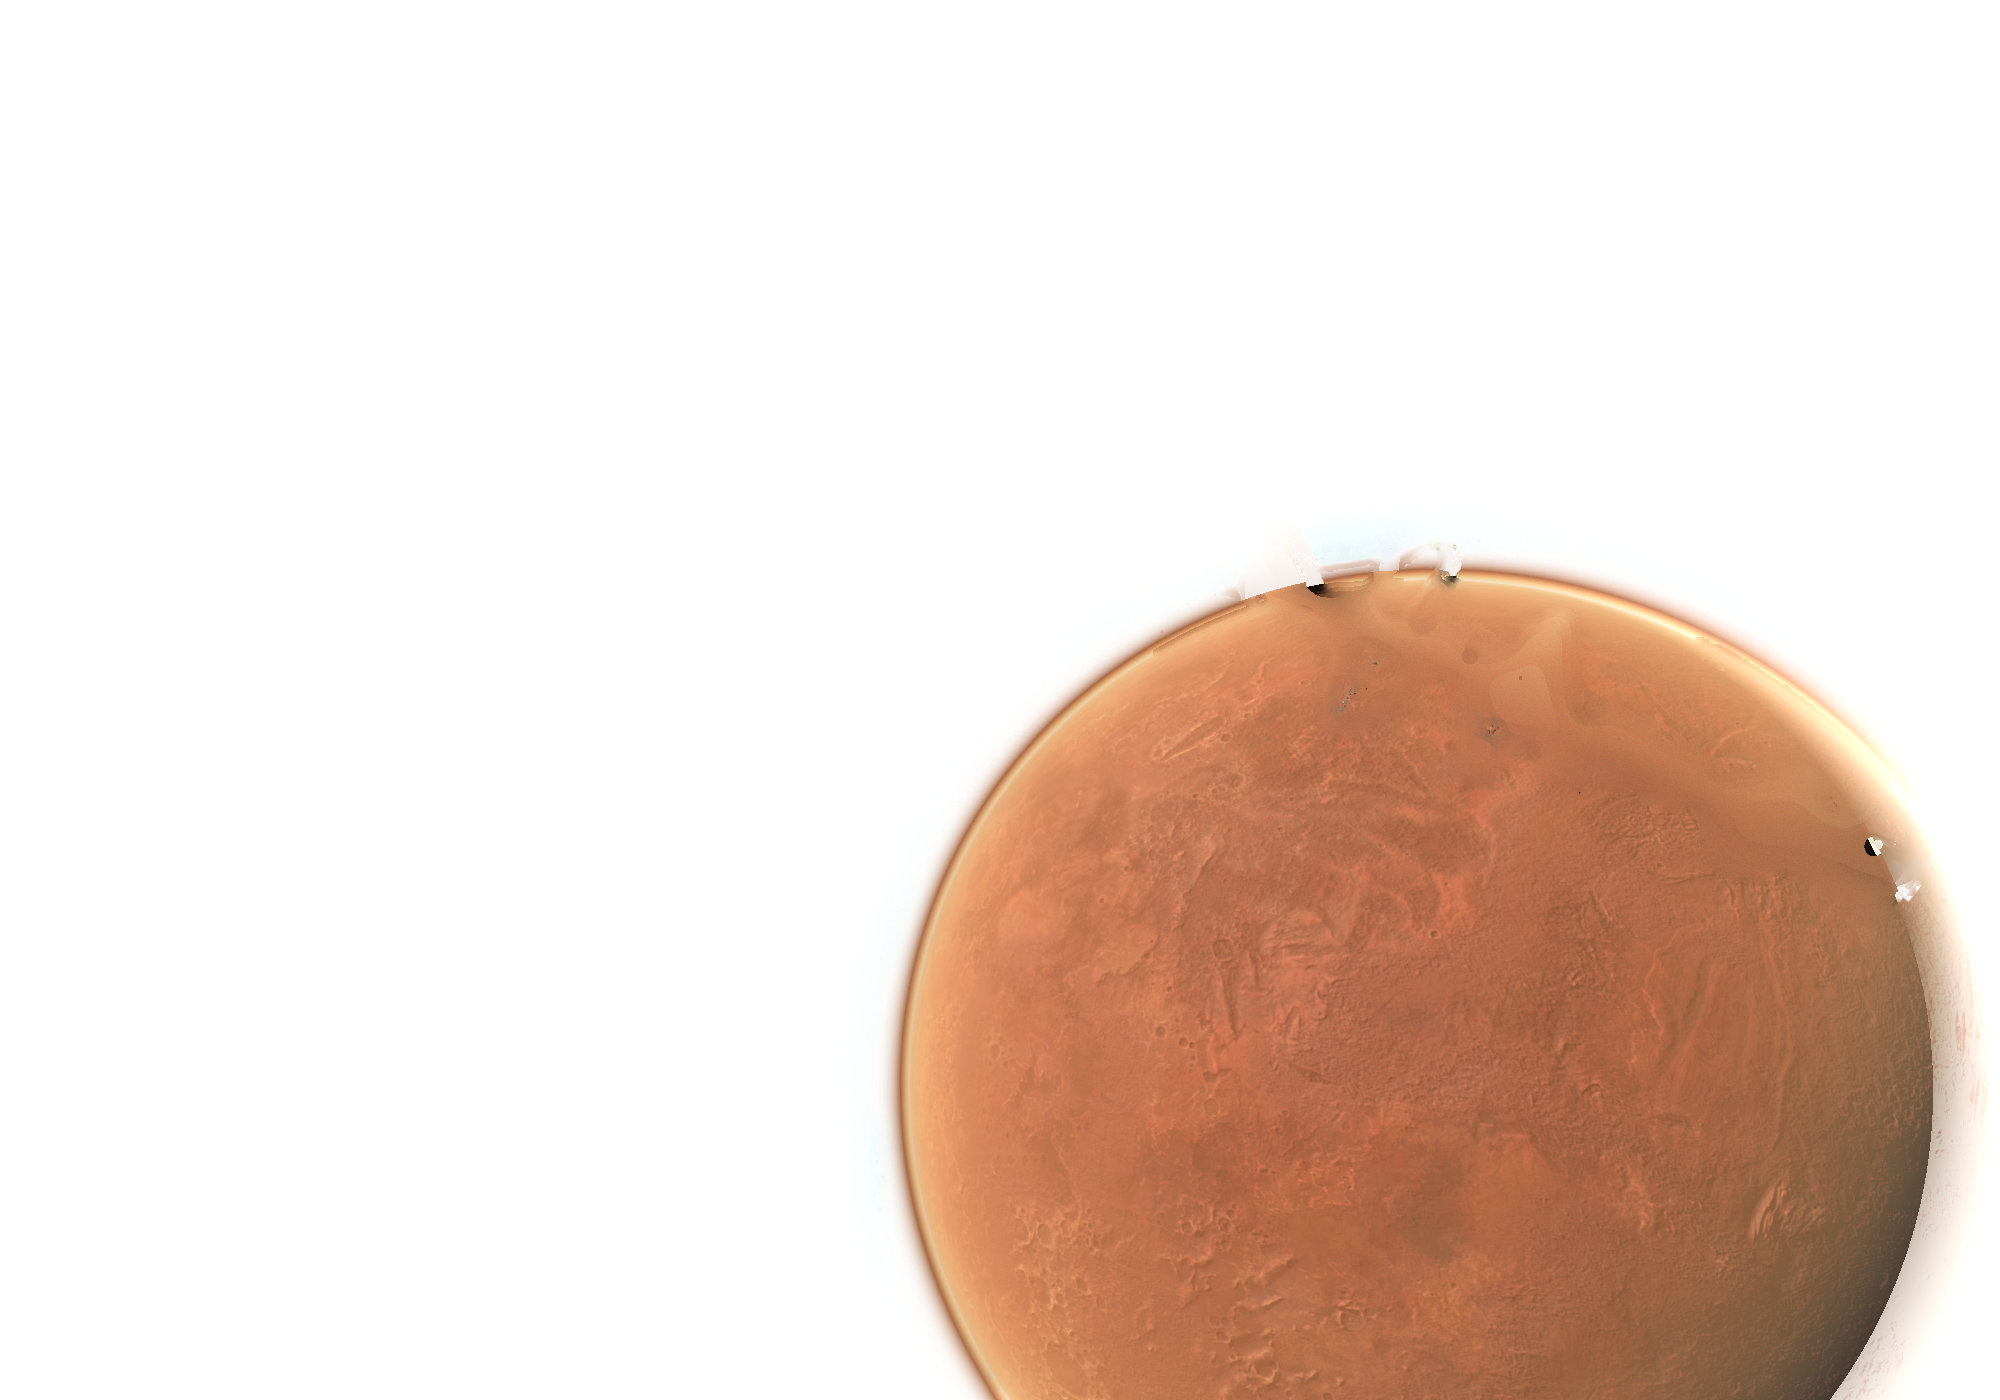
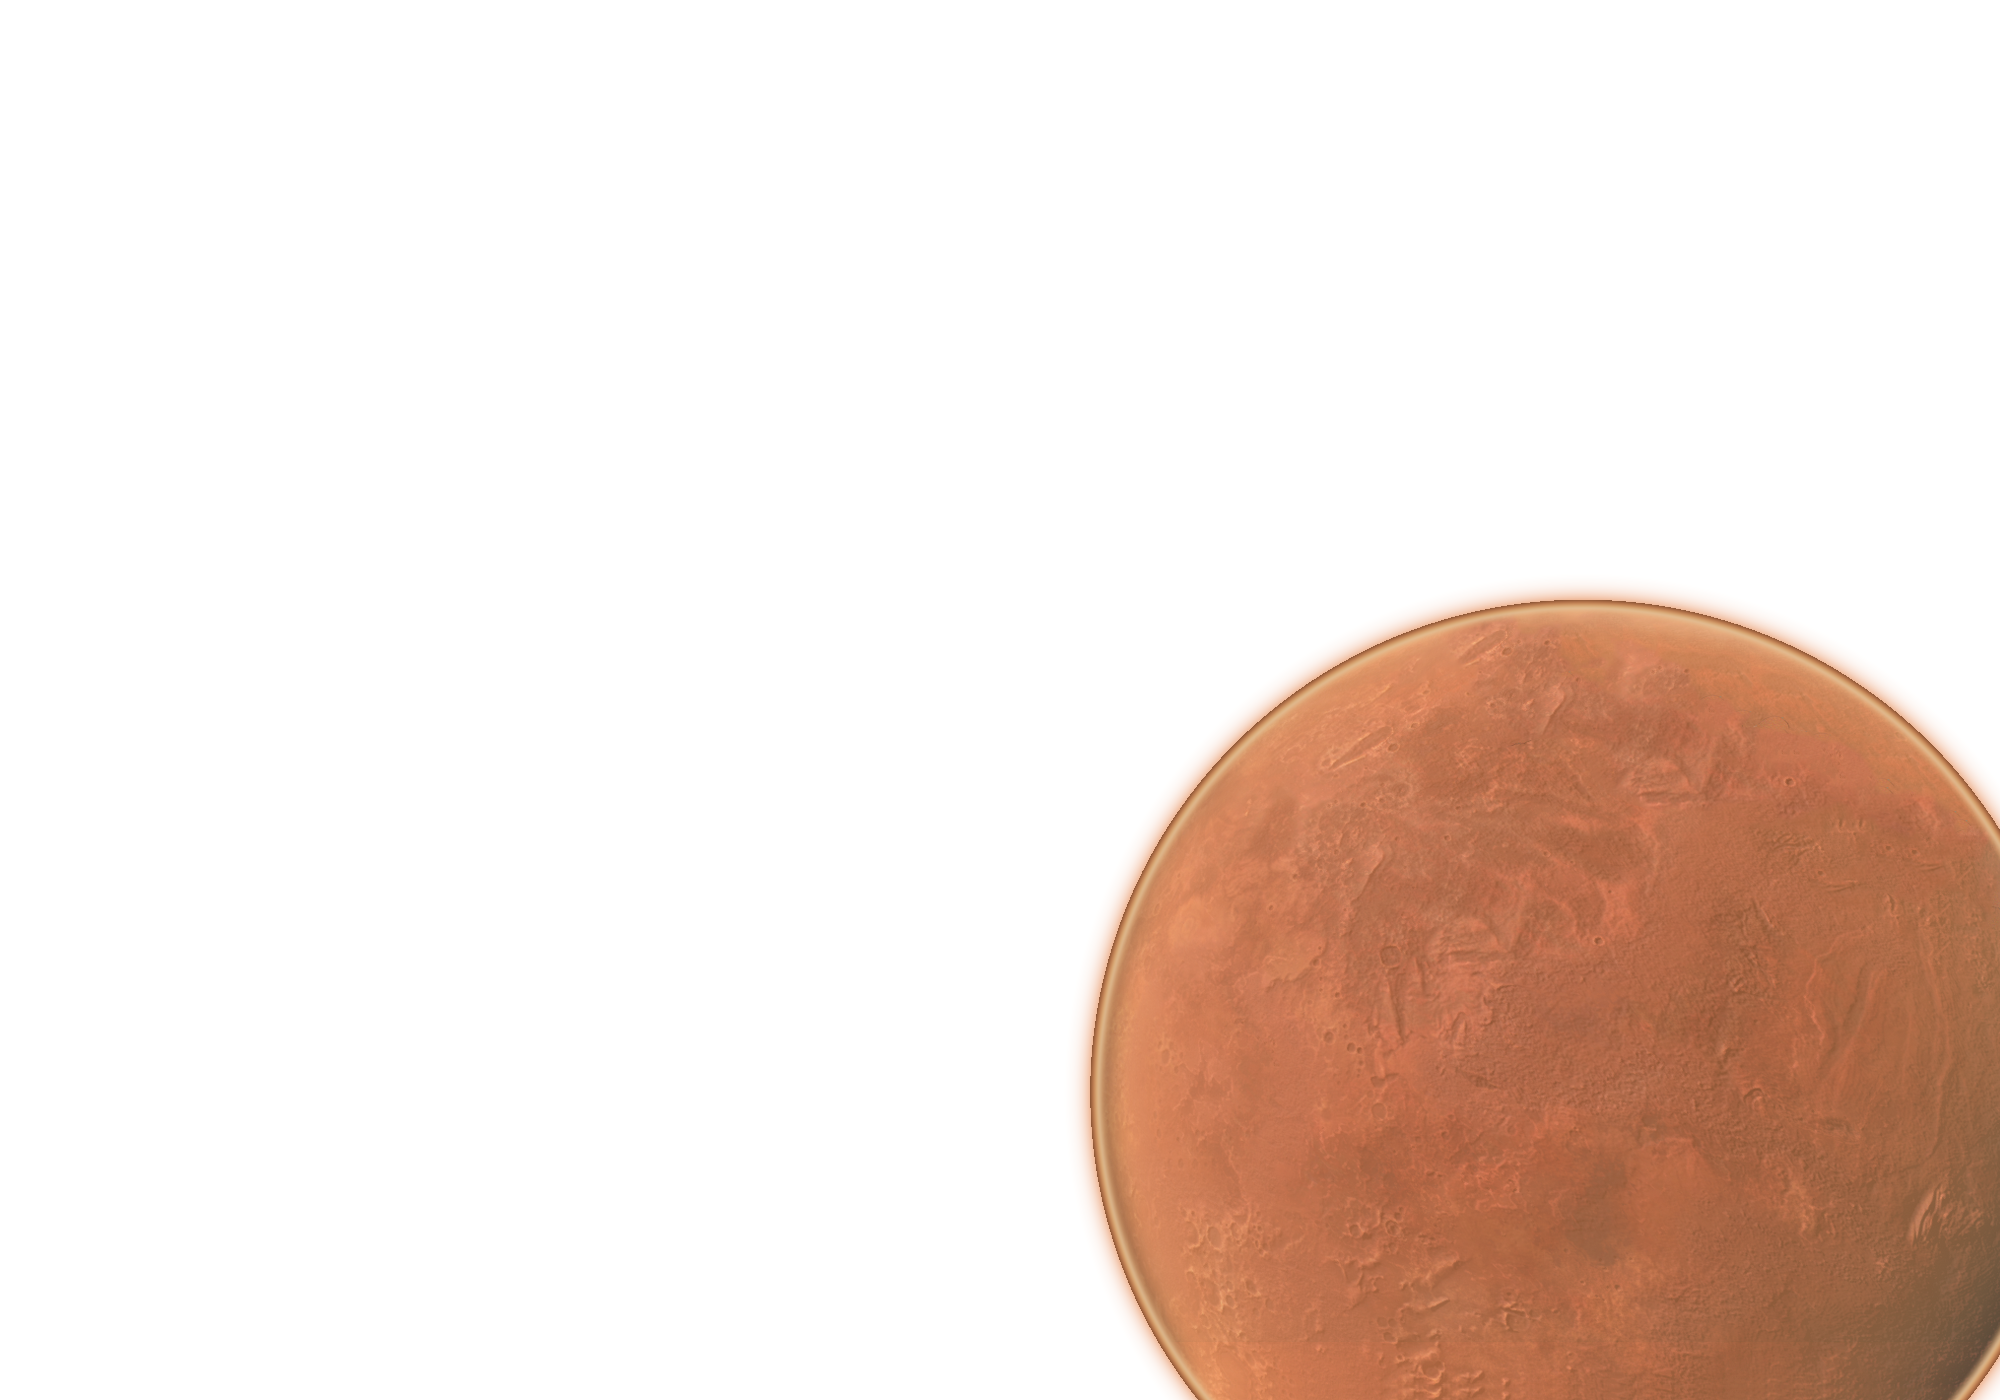
Use touched up parallax layers with a rebuilt planet edge
The station and planet layers were cleaned up by hand in Photoshop, and
the planet was moved and resized (now centred around 1582,1092 with a
495px radius). The export came out flattened onto black, which would
hide the starfield drawn behind it, and the edge had a grey double band
on the left, station remnants above the top limb and a dark flat strip
along the bottom.

design/parallax/fix_planet_edges.py takes the hand edited planet and
keeps the surface as is. It fits the new circle, rebuilds the rim and
glow from the lit limb of the original in-game screenshot so the edge
matches KSP2, subtracts that screenshot's near black background level
so the glow fades out cleanly instead of leaving a faint ring, and makes
everything outside the glow transparent again. The darkened bottom rows
are brightened back row by row, and the last 14 textureless rows are
refilled from the rows just above.

Changed region(s): [[0.434, 0.3993, 1.0, 1.0], [0.682, 0.8293, 0.744, 0.9214], [0.806, 0.5529, 0.837, 0.6143]]

diff --git a/design/parallax/fix_planet_edges.py b/design/parallax/fix_planet_edges.py
@@ -1,0 +1,121 @@
+import math
+import sys
+
+import numpy as np
+from PIL import Image
+
+REFERENCE = "src/Ksp2Redux.Tools.Launcher/Assets/background.png"
+REF_CX, REF_CY, REF_R = 1417.2, 1089.8, 521.4
+LIT_ANGLES = range(150, 236, 5)
+
+GLOW_COLOR = np.array([230, 145, 90], np.float32) / 255
+BAND_START, BAND_FULL = -20.0, -8.0
+PROFILE_RANGE = (-24.0, 48.0, 0.25)
+GLOW_BASELINE_FROM = 40.0
+GLOW_FADE_FROM, GLOW_FADE_TO = 18.0, 34.0
+
+
+def load(path):
+    return np.asarray(Image.open(path).convert("RGB")).astype(np.float32) / 255
+
+
+def bilinear(img, x, y):
+    h, w, _ = img.shape
+    x = np.clip(x, 0, w - 1.001)
+    y = np.clip(y, 0, h - 1.001)
+    x0, y0 = x.astype(int), y.astype(int)
+    fx, fy = (x - x0)[..., None], (y - y0)[..., None]
+    return (img[y0, x0] * (1 - fx) * (1 - fy) + img[y0, x0 + 1] * fx * (1 - fy)
+            + img[y0 + 1, x0] * (1 - fx) * fy + img[y0 + 1, x0 + 1] * fx * fy)
+
+
+def reference_profile():
+    ref = load(REFERENCE)
+    d = np.arange(*PROFILE_RANGE)
+    samples = []
+    for angle in LIT_ANGLES:
+        t = math.radians(angle)
+        samples.append(bilinear(ref, REF_CX + (REF_R + d) * math.cos(t), REF_CY + (REF_R + d) * math.sin(t)))
+    return d, np.mean(samples, axis=0)
+
+
+def fit_surface_circle(img):
+    r, g, b = img[..., 0], img[..., 1], img[..., 2]
+    surface = (r > 120 / 255) & (r > g * 1.3) & (r > b * 1.7)
+    h, w = surface.shape
+    points = []
+    for y in range(0, h, 4):
+        xs = np.nonzero(surface[y])[0]
+        if len(xs) and 5 < xs[0] and y < h - 30:
+            points.append((xs[0], y))
+    for x in range(0, w, 4):
+        ys = np.nonzero(surface[:, x])[0]
+        if len(ys) and 5 < ys[0] and x < w - 30:
+            points.append((x, ys[0]))
+    p = np.array(points, float)
+    a = np.c_[2 * p[:, 0], 2 * p[:, 1], np.ones(len(p))]
+    cx, cy, c = np.linalg.lstsq(a, (p ** 2).sum(1), rcond=None)[0]
+    radius = math.sqrt(c + cx ** 2 + cy ** 2)
+    keep = np.abs(np.hypot(p[:, 0] - cx, p[:, 1] - cy) - radius) < 4
+    cx, cy, c = np.linalg.lstsq(a[keep], (p[keep] ** 2).sum(1), rcond=None)[0]
+    return cx, cy, math.sqrt(c + cx ** 2 + cy ** 2)
+
+
+def repair_bottom(img, inside):
+    h = img.shape[0]
+    rows = np.array([img[y, inside[y]].mean(axis=0) if inside[y].any() else np.zeros(3) for y in range(h)])
+    reference = np.median(rows[h - 200:h - 100], axis=0)
+    brightness = rows.mean(axis=1)
+    dark = np.nonzero(brightness[h - 100:] < reference.mean() * 0.97)[0]
+    if len(dark) == 0:
+        return img, None, None
+    dark_start = h - 100 + int(dark[0])
+    jumps = np.diff(brightness[h - 30:])
+    flat_start = h - 30 + int(np.argmax(jumps)) + 1 if jumps.max() > 0.02 else h
+
+    out = img.copy()
+    for y in range(dark_start, flat_start):
+        out[y, inside[y]] = np.clip(img[y, inside[y]] * (reference / np.maximum(rows[y], 1e-3)), 0, 1)
+
+    strip = h - flat_start
+    for y in range(flat_start, h):
+        copy = out[y - strip, inside[y]]
+        blend = min(1.0, (y - flat_start + 1) / 4)
+        out[y, inside[y]] = copy * blend + out[flat_start - 1, inside[y]] * (1 - blend) if y - flat_start < 3 else copy
+    return out, dark_start, flat_start
+
+
+def smoothstep(e0, e1, x):
+    t = np.clip((x - e0) / (e1 - e0), 0, 1)
+    return t * t * (3 - 2 * t)
+
+
+def main(source, target):
+    img = load(source)
+    h, w, _ = img.shape
+    cx, cy, surface_r = fit_surface_circle(img)
+
+    d_prof, profile = reference_profile()
+    profile = np.clip(profile - profile[d_prof >= GLOW_BASELINE_FROM].mean(axis=0), 0, 1)
+    yy, xx = np.mgrid[0:h, 0:w]
+    d = np.hypot(xx - cx, yy - cy) - surface_r
+
+    img, dark_start, flat_start = repair_bottom(img, d < 0)
+
+    band = np.stack([np.interp(d, d_prof, profile[:, ch]) for ch in range(3)], axis=-1)
+    weight = smoothstep(BAND_START, BAND_FULL, d)[..., None]
+    color = img * (1 - weight) + band * weight
+
+    glow_alpha = np.clip(band[..., 0] / GLOW_COLOR[0], 0, 1) * (1 - smoothstep(GLOW_FADE_FROM, GLOW_FADE_TO, d))
+    alpha = np.where(d < -2, 1.0, glow_alpha)
+    outside = d >= -2
+    color[outside] = np.clip(band[outside] / np.maximum(alpha[outside], 1e-3)[..., None], 0, 1)
+    color[alpha == 0] = 0
+
+    rgba = np.dstack([color, alpha])
+    Image.fromarray((np.clip(rgba, 0, 1) * 255 + 0.5).astype(np.uint8), "RGBA").save(target, optimize=True)
+    print(f"circle centre=({cx:.1f},{cy:.1f}) radius={surface_r:.1f} brightened rows {dark_start}-{flat_start} and refilled from {flat_start}")
+
+
+if __name__ == "__main__":
+    main(sys.argv[1], sys.argv[2])
